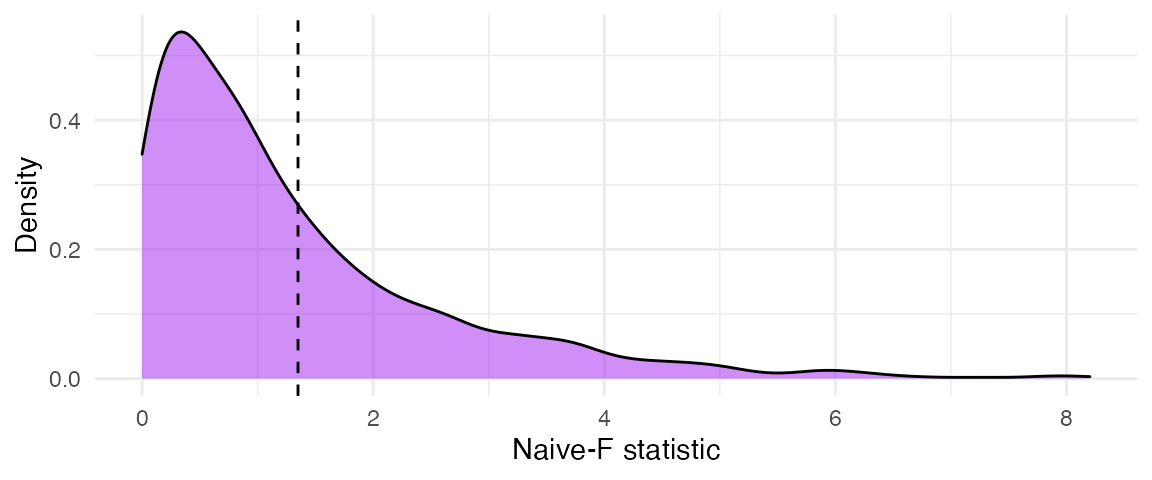
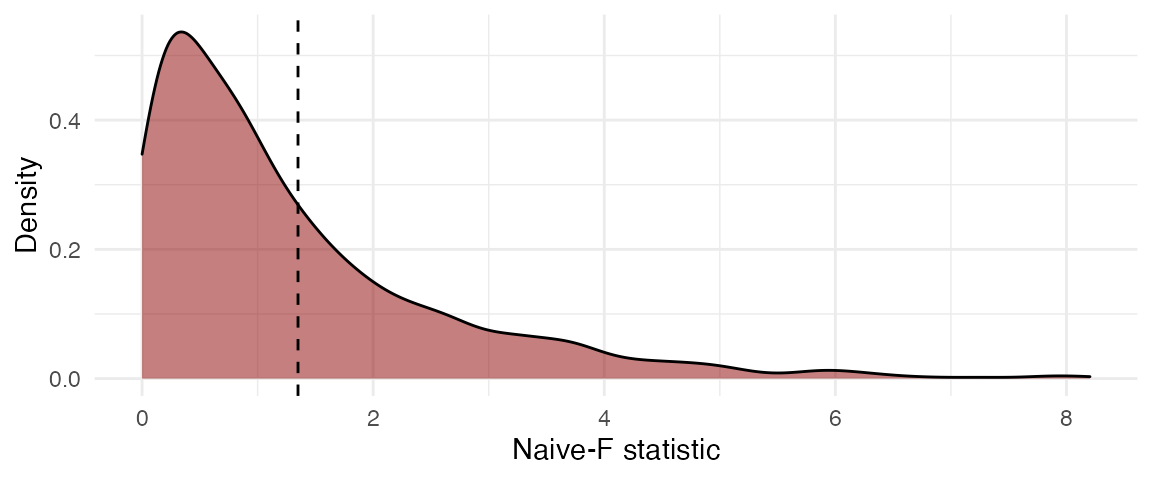
edit vignette

Changed region(s): [[0.125, 0.0625, 0.7812, 0.8125], [0.9062, 0.7812, 0.9375, 0.8125]]

diff --git a/docs/articles/cwbmeta.html b/docs/articles/cwbmeta.html
@@ -202,7 +202,7 @@
                        seed <span class="op">=</span> <span class="fl">20201229</span><span class="op">)</span>
 <span class="op">)</span>
 <span class="co">#&gt;    user  system elapsed </span>
-<span class="co">#&gt;   9.026   0.102   9.247</span></code></pre></div>
+<span class="co">#&gt;   8.616   0.093   8.776</span></code></pre></div>
 </div>
 <div class="section level4">
 <h4 id="metafor-models-1">
@@ -222,7 +222,7 @@
                           R <span class="op">=</span> <span class="fl">999</span>,
                           seed <span class="op">=</span> <span class="fl">20210113</span><span class="op">)</span><span class="op">)</span>
 <span class="co">#&gt;    user  system elapsed </span>
-<span class="co">#&gt; 229.663  32.539 272.656</span></code></pre></div>
+<span class="co">#&gt; 221.364  31.716 262.097</span></code></pre></div>
 </div>
 </div>
 </div>
@@ -231,7 +231,7 @@
 </h2>
 <p>The function <a href="https://meghapsimatrix.github.io/wildmeta/reference/plot.Wald_test_wildmeta.html"><code>plot()</code></a> creates a <code>ggplot</code> figure representing the distribution of the bootstrap replicates based on the results from the <code><a href="../reference/Wald_test_cwb.html">Wald_test_cwb()</a></code> function. The dashed line represents the <span class="math inline">\(F\)</span> test statistic from the original full model. The bootstrapped p-value is the proportion of bootstrapped <span class="math inline">\(F\)</span> test statistics that are greater than the original <span class="math inline">\(F\)</span> statistic.</p>
 <div class="sourceCode" id="cb6"><pre class="downlit sourceCode r">
-<code class="sourceCode R"><span class="fu"><a href="https://rdrr.io/r/graphics/plot.default.html" class="external-link">plot</a></span><span class="op">(</span><span class="va">res</span>, fill <span class="op">=</span> <span class="st">"purple"</span>, alpha <span class="op">=</span> <span class="fl">0.5</span><span class="op">)</span></code></pre></div>
+<code class="sourceCode R"><span class="fu"><a href="https://rdrr.io/r/graphics/plot.default.html" class="external-link">plot</a></span><span class="op">(</span><span class="va">res</span>, fill <span class="op">=</span> <span class="st">"darkred"</span>, alpha <span class="op">=</span> <span class="fl">0.5</span><span class="op">)</span></code></pre></div>
 <p><img src="cwbmeta_files/figure-html/unnamed-chunk-6-1.png" width="576"></p>
 </div>
 <div class="section level2">
